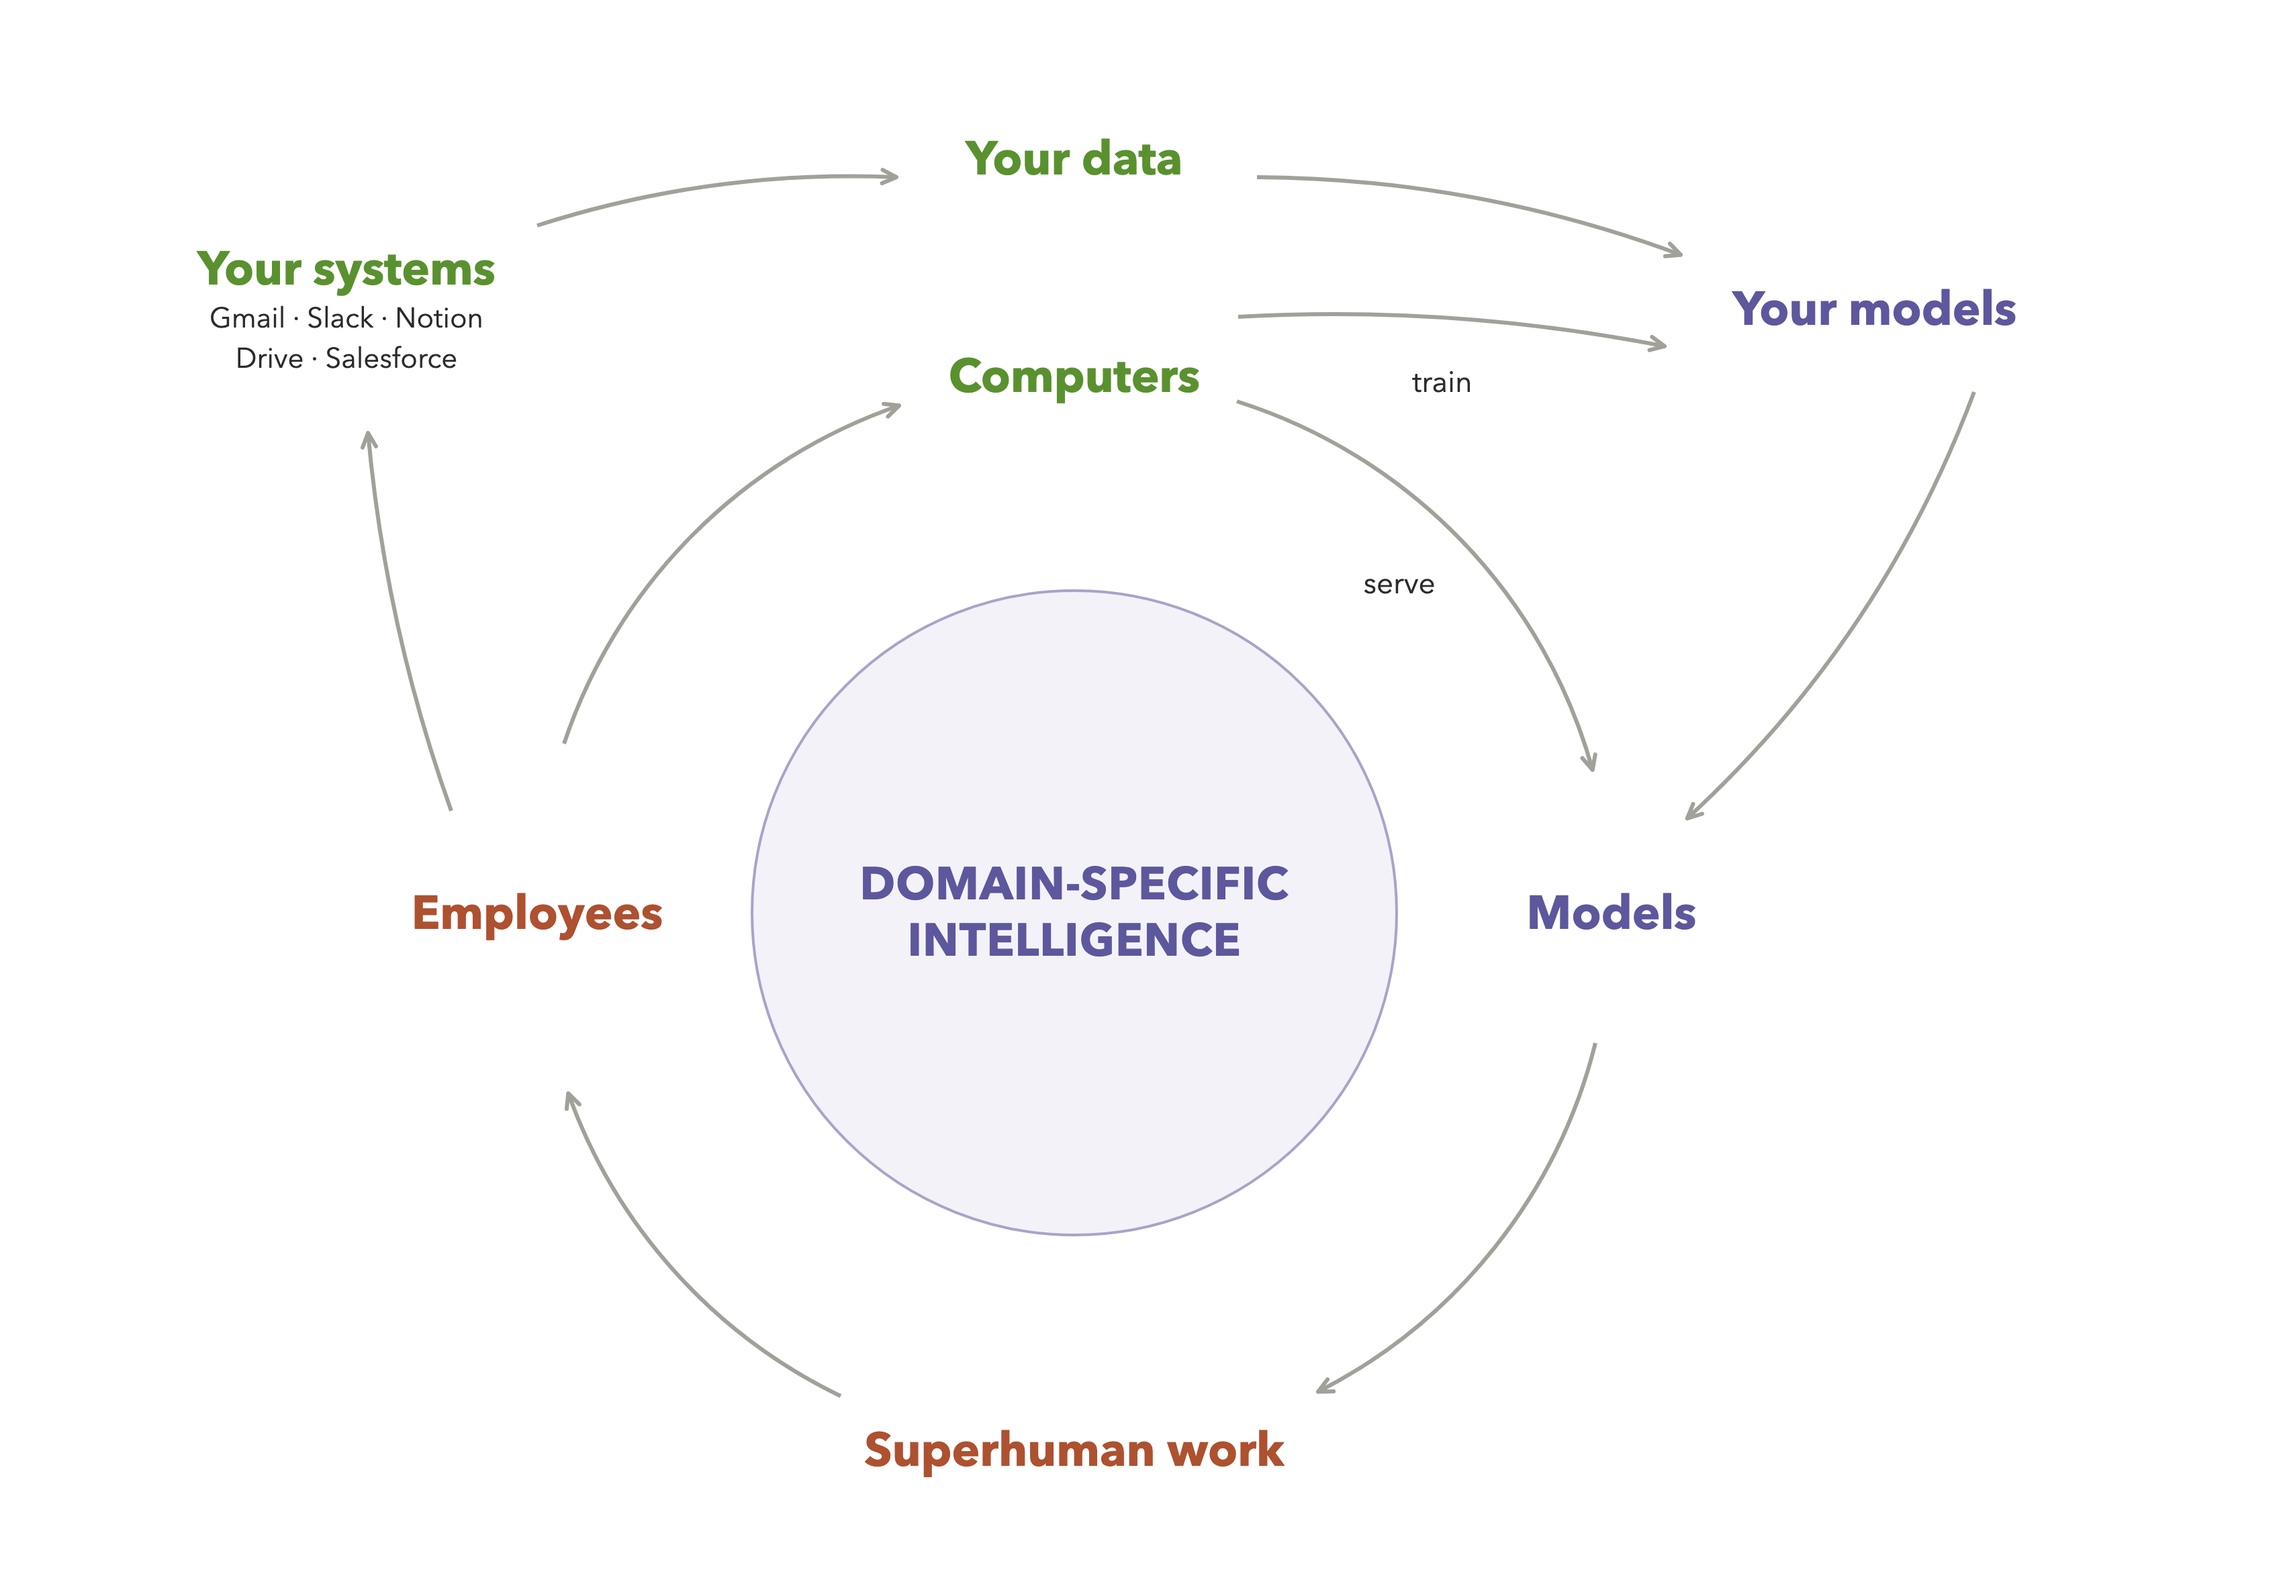
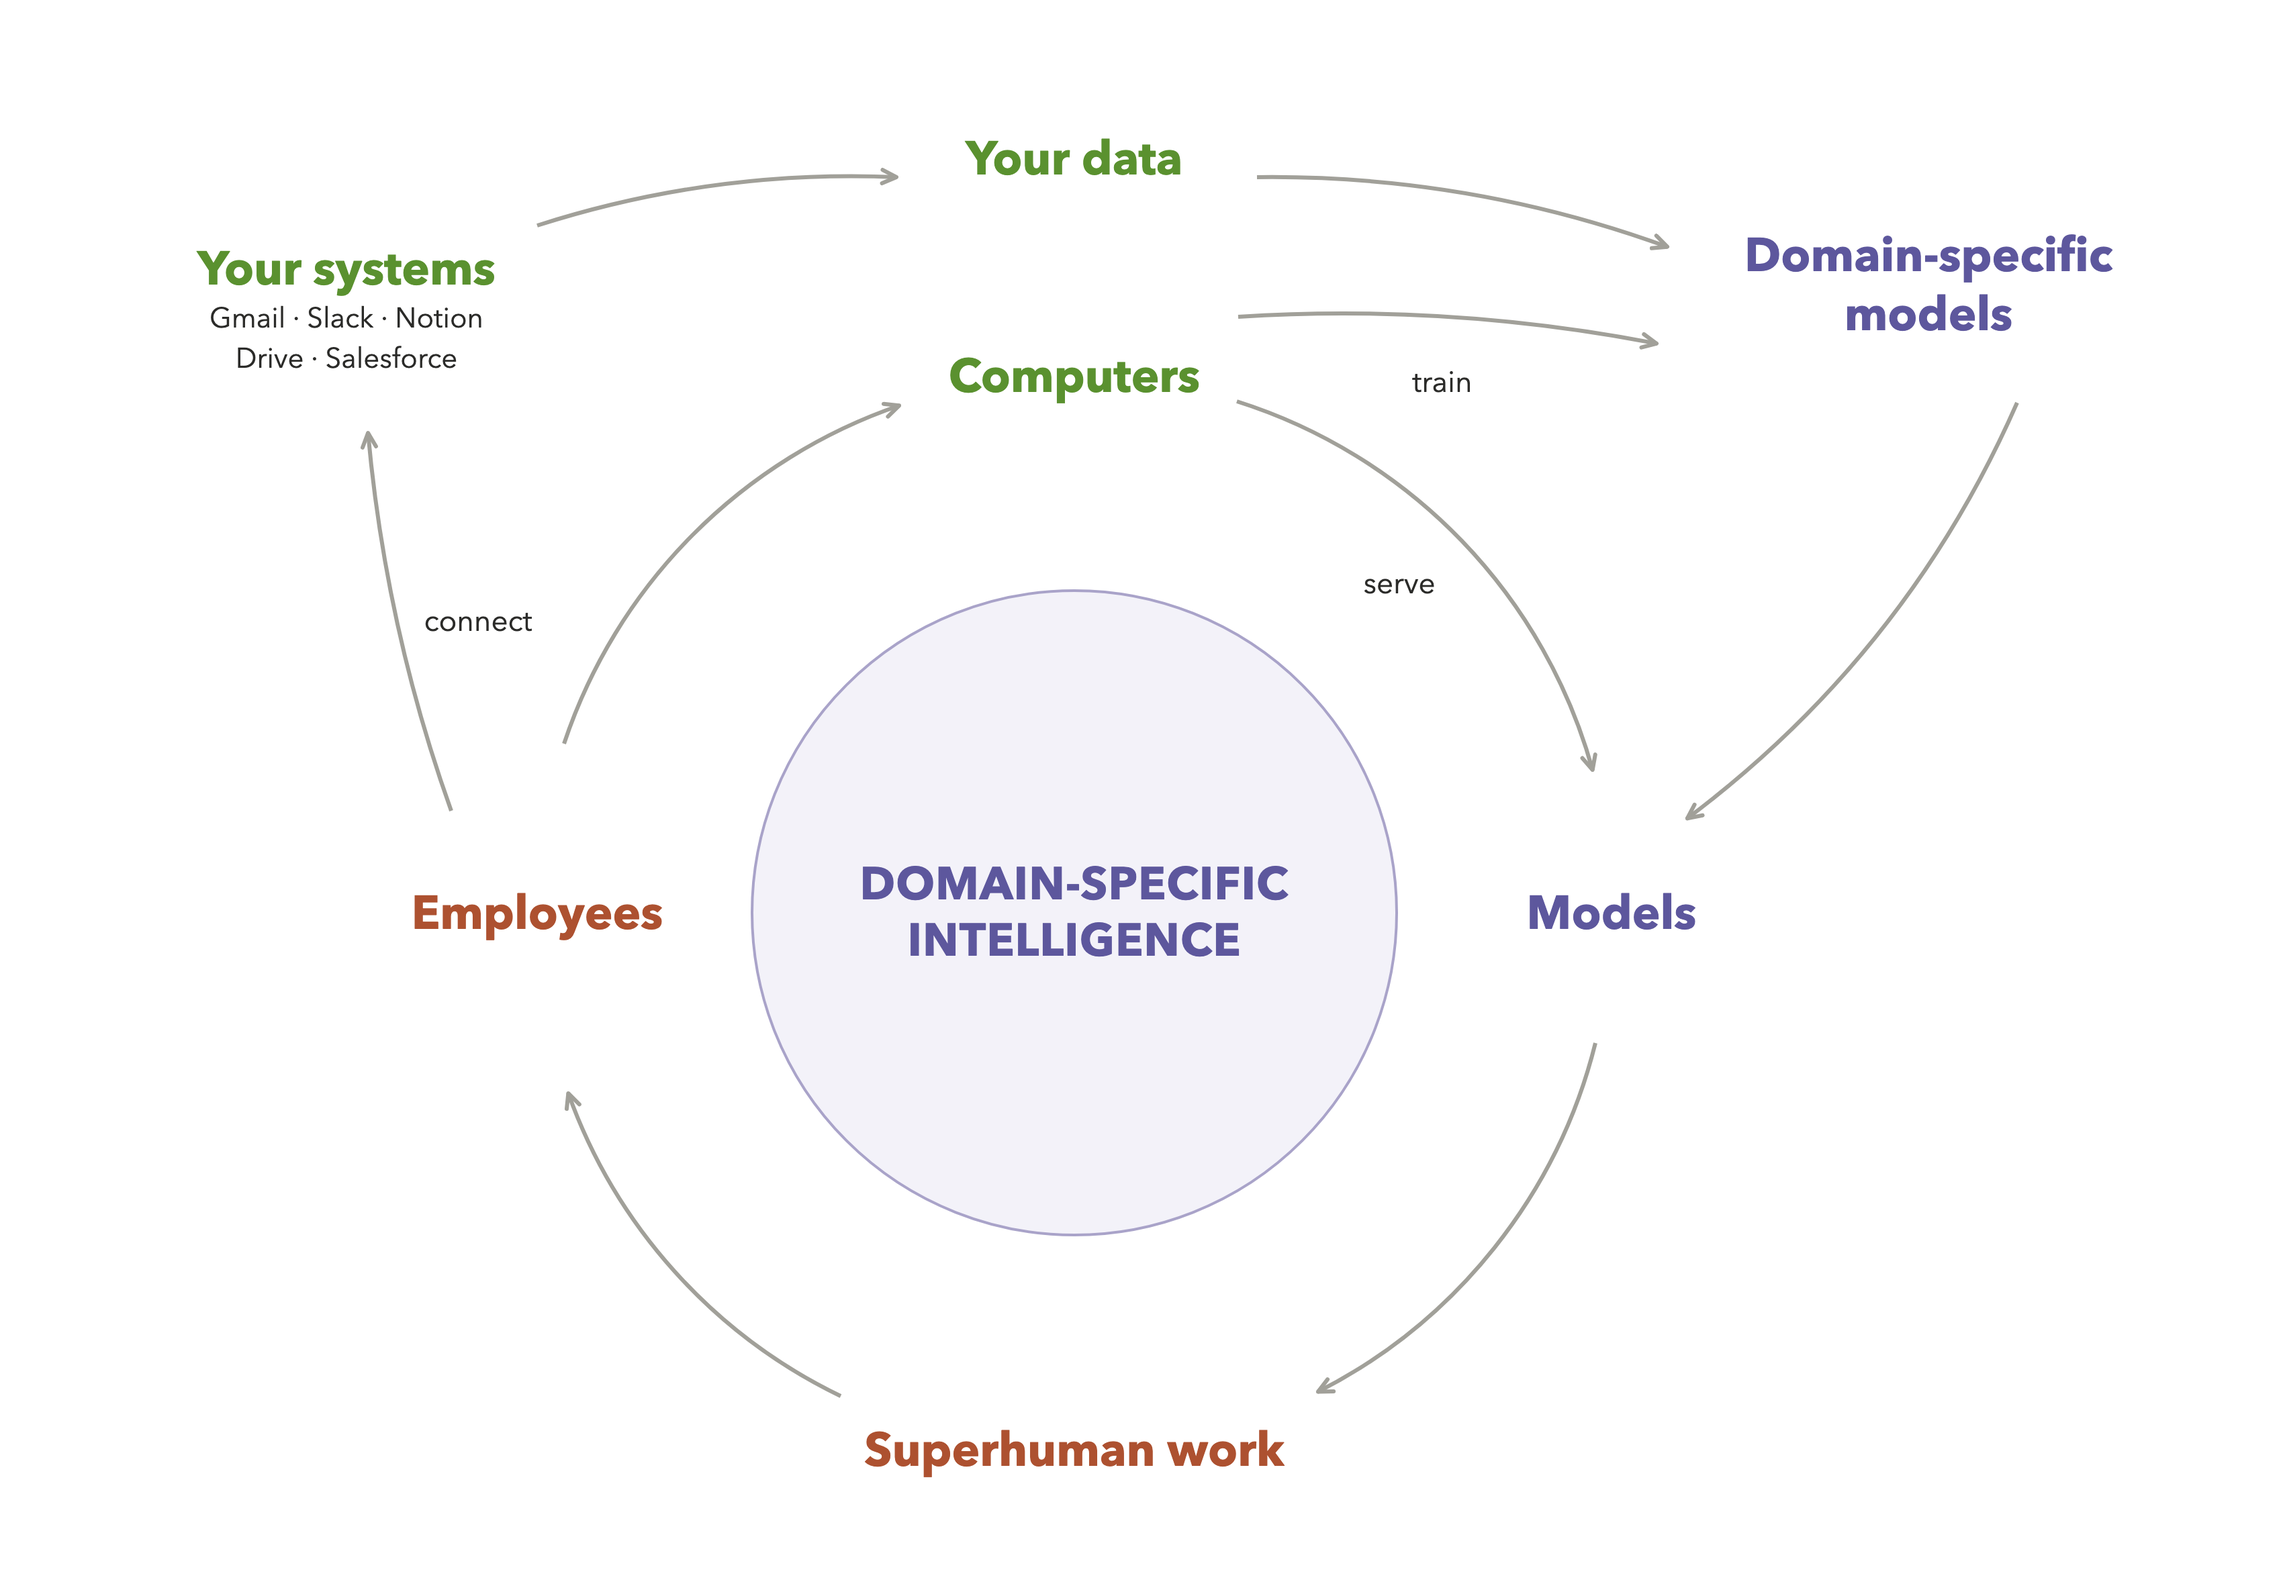
feat(docs): the first figure gets one line and a fleet under it, and three words change
train-architecture is now one line across the top — your tasks, the trainer, an
adapter, the gate, served or binned — with the fleet in a row underneath the
trainer, because the machines are not a stage in that line. They are what the
trainer reaches for and gets answers back from.

The three machines sit close enough to touch. A fan to each of them meant six
lines that crossed each other to say a thing a contiguous row already says, and
a single pair of arrows can then address the group.

"Your work" becomes "Your tasks": the trainer holds tasks, and work is what the
grid does with them everywhere else on the page.

On the wheel, "Your models" becomes "Domain-specific models". "Your DSI" was the
other candidate and it duplicates the hub — the hub is the asset that
accumulates, this is the artifact that gets made. Spelling it out also puts the
contrast on the page rather than leaving it implied: the rim carries plain
Models, and the second loop's domain-specific ones join them.

And the arrow from employees to their systems is labelled connect, which is the
one thing on that loop a person actually does.

diff --git a/docs/build_figures.py b/docs/build_figures.py
@@ -176,51 +176,51 @@ for ry, label, weight, dashed in rows:
 f.write(f"{OUT}/fig-earns.svg")
 
 # ------------------------------------------------------- train-architecture
-# The first figure on the page, so it has to get the direction right: the trainer
-# holds your work and the weights and drives everything. It asks the machines for
-# attempts; they answer; it makes an adapter; the gate decides whether anyone ever
-# sees it. Drawn as one loop with the gate hanging off the end rather than as a
-# line, because a line said the trainer was the last stage of a pipeline.
-f = Fig(1900, 720)
-y = 330
-ww = box_w("Your work") - 8
+# The first figure on the page, so the direction has to be right: the trainer
+# holds your tasks and the weights and drives everything. One line across the top
+# is the story — tasks in, adapter out, gate decides. The fleet sits underneath
+# the trainer because it is not a stage in that line, it is what the trainer
+# reaches for and gets answers back from.
+f = Fig(1600, 780)
+y = 250
+ww = box_w("Your tasks") - 8
 wcx = M + ww / 2
-f.term(wcx, y, "Your work", w=ww)
+f.term(wcx, y, "Your tasks", w=ww)
 
 tw2 = box_w("The trainer")
 tcx = wcx + ww / 2 + 150 + tw2 / 2
 f.box(tcx, y, "The trainer", kind="purple", w=tw2)
 f.arrow(wcx + ww / 2 + 12, y, tcx - tw2 / 2 - 14, y)
 
-MW = 236
-mcx = tcx + tw2 / 2 + 210 + MW / 2
-rows = [y - 148, y, y + 148]
-for ry, name in zip(rows, ["MacBook Pro", "Mac Studio", "RTX box"]):
-    f.box(mcx, ry, name, w=MW)
-    curve = 0 if ry == y else 70
-    off = 14 if ry > y else -14 if ry < y else 0
-    f.arrow(tcx + tw2 / 2 + 12, y + off, mcx - MW / 2 - 14, ry, curve=curve)
-f.label(tcx + tw2 / 2 + 118, rows[0] - 58, "a task, several attempts")
-
-# What comes back is the loop closing, and it is why the trainer is not the last
-# box: the attempts are the thing it learns from.
-f.elbow([(mcx, rows[2] + H / 2 + 12), (mcx, 620), (tcx, 620), (tcx, y + H / 2 + 14)])
-f.label((tcx + mcx) / 2, 664, "the attempts, and the token ids they sampled")
-
 gw = box_w("The gate")
-gcx = mcx + MW / 2 + 260 + gw / 2
+gcx = tcx + tw2 / 2 + 300 + gw / 2
 f.box(gcx, y, "The gate", kind="purple", w=gw)
-f.elbow([(tcx, y - H / 2 - 12), (tcx, 92), (gcx, 92), (gcx, y - H / 2 - 14)], dashed=True)
-f.label((tcx + gcx) / 2, 58, "an adapter, once the climb is done")
+f.arrow(tcx + tw2 / 2 + 12, y, gcx - gw / 2 - 14, y)
+f.label((tcx + tw2 / 2 + gcx - gw / 2) / 2, y - 26, "an adapter")
 
 ow = box_w("Served") - 8
 ocx = gcx + gw / 2 + GAP + ow / 2
-f.term(ocx, y - 128, "Served", w=ow)
-f.term(ocx, y + 128, "Binned", w=ow)
-f.arrow(gcx + gw / 2 + 12, y - 14, ocx - ow / 2 - 14, y - 128, curve=60)
-f.arrow(gcx + gw / 2 + 12, y + 14, ocx - ow / 2 - 14, y + 128, dashed=True, curve=60)
-f.label(gcx + gw / 2 + 62, y - 146, "better")
-f.label(gcx + gw / 2 + 70, y + 180, "not better")
+f.term(ocx, y - 110, "Served", w=ow)
+f.term(ocx, y + 110, "Binned", w=ow)
+f.arrow(gcx + gw / 2 + 12, y - 14, ocx - ow / 2 - 14, y - 110, curve=60)
+f.arrow(gcx + gw / 2 + 12, y + 14, ocx - ow / 2 - 14, y + 110, dashed=True, curve=60)
+f.label(gcx + gw / 2 + 62, y - 128, "better")
+f.label(gcx + gw / 2 + 70, y + 162, "not better")
+
+# The fleet, in a row under the trainer. Out on the left, back on the right —
+# two arrows with air between them, so the pair reads as a round trip rather
+# than as one line doing both jobs.
+MW = 236
+my = 580
+# Set close enough to touch: three boxes in a contiguous strip read as one fleet,
+# so one pair of arrows can address the group. Fanning to each of them meant six
+# lines that crossed, to say a thing the row already says.
+for bx, name in zip((tcx - 250, tcx, tcx + 250), ("MacBook Pro", "Mac Studio", "RTX box")):
+    f.box(bx, my, name, w=MW)
+f.arrow(tcx - 62, y + H / 2 + 12, tcx - 62, my - H / 2 - 14)
+f.arrow(tcx + 62, my - H / 2 - 14, tcx + 62, y + H / 2 + 12)
+f.label(tcx - 140, 396, "a task,", "several attempts", anchor="end")
+f.label(tcx + 140, 384, "the attempts, and", "the token ids they sampled", anchor="start")
 f.write(f"{OUT}/train-architecture.svg")
 
 # -------------------------------------------------------------- fig-flywheel
@@ -277,19 +277,24 @@ f.block(258, 200, ("Your systems",), GREEN_TEXT, CORE_FS)
 f.block(258, 252, ("Gmail · Slack · Notion", "Drive · Salesforce"),
         LABEL_TEXT, SAT_FS, weight=400)
 f.block(800, 118, ("Your data",), GREEN_TEXT, CORE_FS)
-f.block(1396, 230, ("Your models",), PURPLE_TEXT, CORE_FS)
+# Spelled out rather than "Your DSI": the hub is the asset that accumulates, this
+# is the artifact that gets made, and naming both the same thing would collapse a
+# distinction the second loop exists to draw. It also puts the contrast on the
+# page — the ring's general Models, and the domain-specific ones joining them.
+f.block(1436, 212, ("Domain-specific", "models"), PURPLE_TEXT, CORE_FS)
 
 f.bow(336, 604, 274, 322, lift=-18, colour=INK, width=RIM)
+f.label(356, 470, "connect")
 f.bow(400, 168, 668, 132, lift=-24, colour=INK, width=RIM)
-f.bow(936, 132, 1252, 190, lift=-28, colour=INK, width=RIM)
-f.bow(1470, 292, 1256, 610, lift=-46, colour=INK, width=RIM)
+f.bow(936, 132, 1242, 184, lift=-28, colour=INK, width=RIM)
+f.bow(1502, 300, 1256, 610, lift=-52, colour=INK, width=RIM)
 
 # The one place a verb earns its keep: Computers is the only station that does two
 # different jobs, and without this second arrow the drawing shows only the first.
 # The same machines serve by day and train at night — section 4. The two arrows
 # leave Computers well apart: the rim departs at about 288 degrees, so this one
 # starts clear above it rather than from the same few pixels.
-f.bow(922, 236, 1240, 258, lift=-20, colour=INK, width=RIM)
+f.bow(922, 236, 1234, 256, lift=-20, colour=INK, width=RIM)
 f.label(1074, 292, "train")
 f.label(1042, 442, "serve")
 

diff --git a/train/README.md b/train/README.md
@@ -25,7 +25,7 @@ inference is what a grid already does. So the expensive part of training is work
 already good at, and the only new thing is one machine that adjusts weights.
 
 <p align="center">
-<img src="../docs/train-architecture.png" width="900" alt="Your work and the weights sit with the trainer, which asks the machines you own for several attempts at a task; the attempts and the token ids they sampled come back to it; it turns those into an adapter, and the gate serves the result only if it beats the model you already serve, and bins it otherwise.">
+<img src="../docs/train-architecture.png" width="900" alt="Your tasks and the weights sit with the trainer, which drives everything: across the top it takes your tasks, produces an adapter and hands it to the gate, which serves the result only if it beats the model you already serve and bins it otherwise. Below the trainer sits the fleet you own — a MacBook Pro, a Mac Studio and an RTX box — which the trainer asks for several attempts at a task and which return those attempts along with the token ids they sampled.">
 </p>
 
 ---
@@ -300,7 +300,7 @@ curl $GRID/v1/feedback -d '{"request_id":"…","verdict":"edited","final_text":"
 ## The flywheel
 
 <p align="center">
-<img src="../docs/fig-flywheel.png" width="820" alt="A flywheel around a filled hub reading DOMAIN-SPECIFIC INTELLIGENCE. The ring turns clockwise from the top: computers, models, superhuman work, employees, and back to computers. Computers has two outgoing arrows, marked serve and train. A second loop forks off the wheel at employees and runs over the top — your systems, then your data, then your models — before rejoining the wheel at models.">
+<img src="../docs/fig-flywheel.png" width="820" alt="A flywheel around a filled hub reading DOMAIN-SPECIFIC INTELLIGENCE. The ring turns clockwise from the top: computers, models, superhuman work, employees, and back to computers. Computers has two outgoing arrows, marked serve and train. A second loop forks off the wheel at employees, marked connect, and runs over the top — your systems, then your data, then domain-specific models — before rejoining the wheel at models.">
 </p>
 
 **The ring is the whole business in four words.** Computers run models. Models make the work
@@ -312,8 +312,9 @@ structurally cannot copy — its capacity is rented, and this walks in the door.
 because they are the ones who connect a system — the cheapest thing on this page, and what turns a
 general model into one that knows your tickets, your repos, your deals. That data is not one undifferentiated pile — it arrives sorted by the job
 that produced it, which is what makes a model *for that job* possible rather than one model asked
-to be good at everything. Those are models too, so the loop rejoins the wheel where models do. What
-it skips is the one station that needs somebody to buy something.
+to be good at everything. Those are models too — which is why the loop rejoins the wheel at
+models, and why the drawing spells out *domain-specific* there against the plain **Models** on the
+rim. What it skips is the one station that needs somebody to buy something.
 
 ## The code
 
